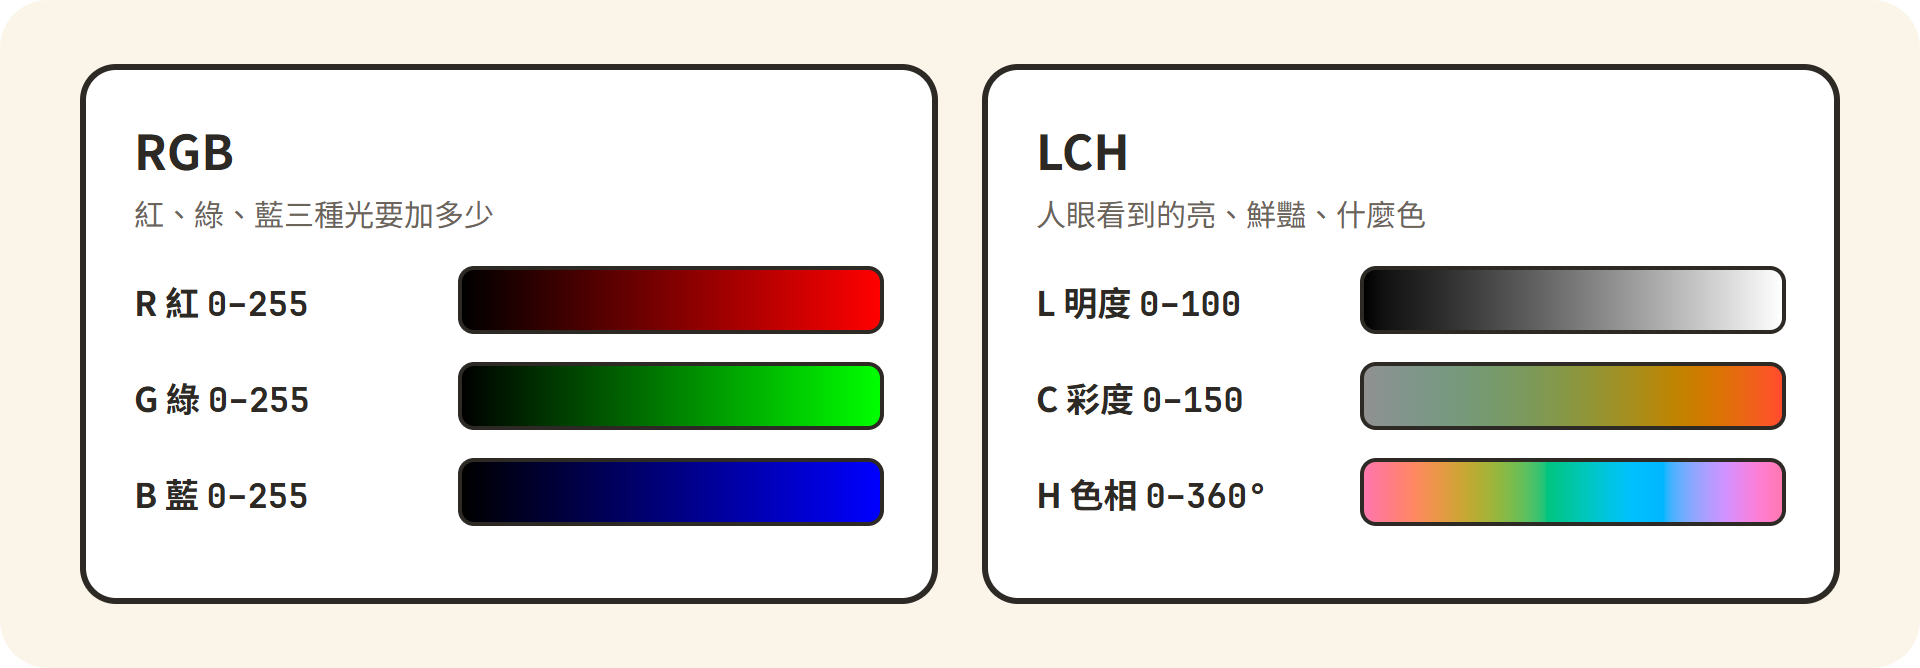
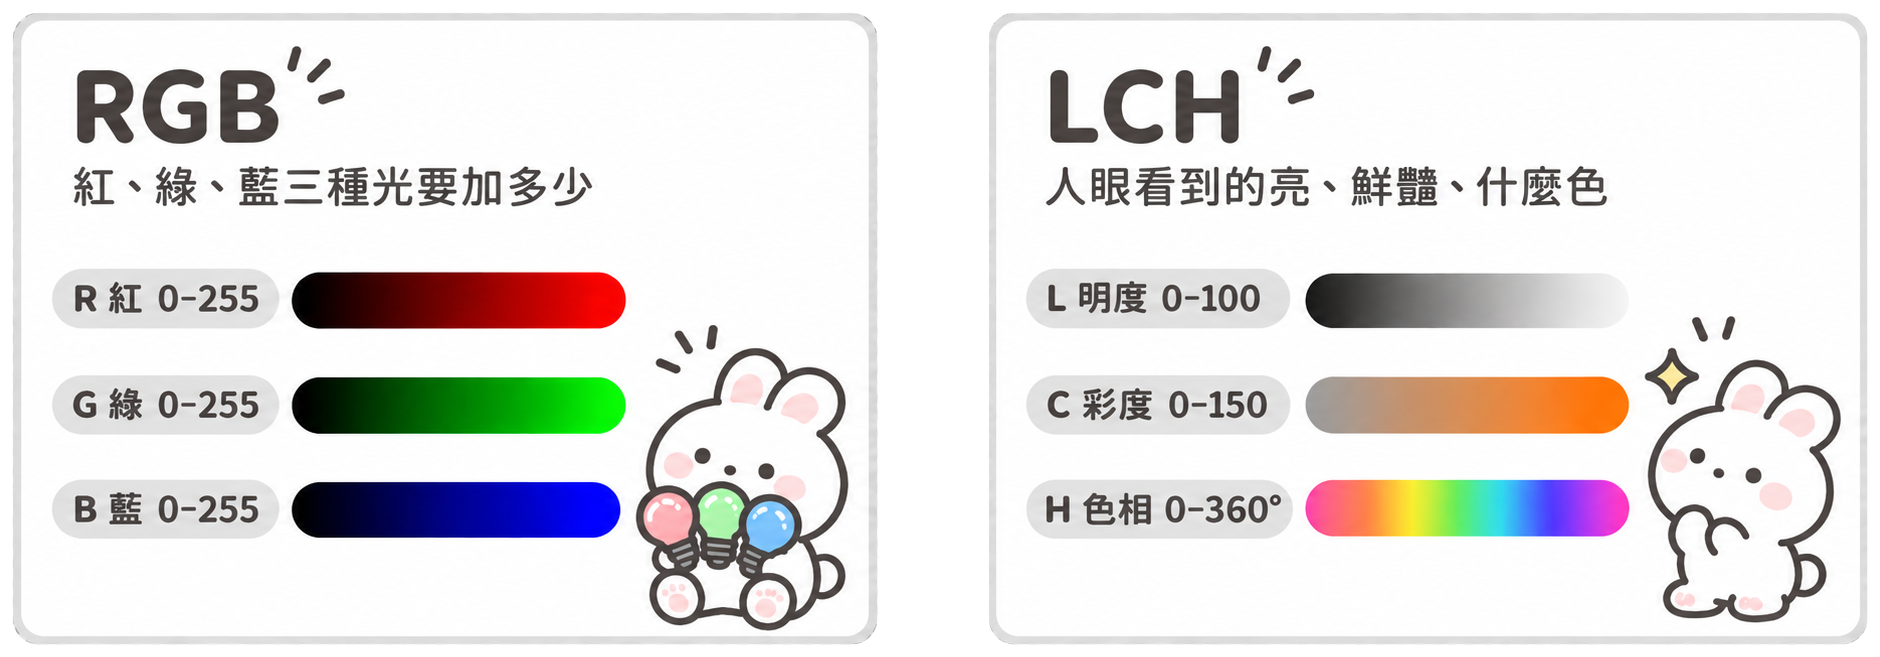
[修改] LCH vs RGB 文章封面與插圖改為新版風格
- 封面與「LCH 跟 RGB 是什麼？」「為什麼 RGB 漸層會髒髒的？」兩張插圖改成有吉祥物小兔的透明背景插畫
- 漸層插圖的 alt 文字配合新圖調整

diff --git a/src/content/posts/lch-vs-rgb-gradient/index.md b/src/content/posts/lch-vs-rgb-gradient/index.md
@@ -57,7 +57,7 @@ draft: false
 
 問題在 **RGB 是三個通道各自取平均**，以藍色到黃色為例：
 
-![藍色到黃色的漸層。RGB 正中間是 128,128,128 的灰色；LCH 正中間是鮮豔的粉紅色](./muddy.png)
+![藍色到黃色的漸層，虛線標出正中間：RGB 正中間變成灰色；LCH 正中間保持鮮豔的粉紅色](./muddy.png)
 
 | | R | G | B | 結果 |
 | --- | --- | --- | --- | --- |
